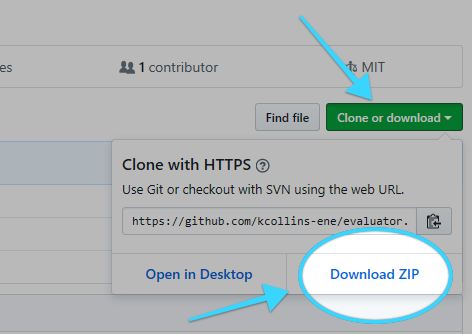
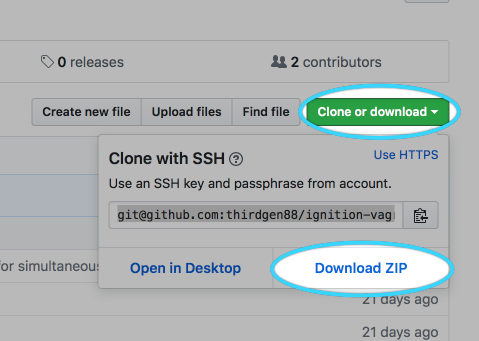
Modified for use as Ignition Dev only

diff --git a/README.md b/README.md
@@ -1,5 +1,5 @@
-# Systems Integrator Skills Evaluator
-This provides a simple set of exercises under the [Ignition](http://www.inductiveautomation.com) platform to establish a baseline capability for folks wanting to enter the industrial automation space as a Systems Integrator (SI).
+# Ignition Vagrant Development Environment
+This repository utilizes Vagrant to fully setup and provision an isolated Ignition development system to get up and running quickly!
 
 ## Prerequisites
 
@@ -43,7 +43,7 @@ Unpack the downloaded zip file, open a command prompt to the resulting location,
 First, open a terminal and clone this repository to your computer:
 
 ```bash
-git clone https://github.com/kcollins-ene/evaluator.git
+git clone https://github.com/thirdgen88/ignition-vagrant.git
 ```
 
 > If you don't have `git` installed, you may get some additional output during this step.  macOS will typically prompt you to install the Xcode developer tools—once completed, you may need to re-run the `git` command above.
@@ -51,14 +51,14 @@ git clone https://github.com/kcollins-ene/evaluator.git
 Next, start the environment:
 
 ```shell
-cd evaluator
+cd ignition-vagrant
 vagrant up
 ```
 
 
 ### All
 
-Following the platform-specific steps above will create and provision an Ubuntu 16.04 development environment with Oracle Java8, MySQL, and Ignition 7.9.3 preinstalled.  Next, simply launch a web browser against the forwarded port on your local computer:
+Following the platform-specific steps above will create and provision an Ubuntu 16.04 development environment with Oracle Java8, MySQL, and Ignition preinstalled.  Next, simply launch a web browser against the forwarded port on your local computer:
 
 http://localhost:8088
 
@@ -66,13 +66,9 @@ If you see an Ignition Gateway Webpage, you're ready to go:
 
 ![Ignition Home Page](images/ignition_home_page.png)
 
-## Performing the evaluation
-
-With your development environment online and ready, proceed to the [Evaluation](Evaluation.md) section for more instructions!
-
 ## Shutting down the environment
 
-In order to shutdown the environment, run the following command in the `evaluator` folder:
+In order to shutdown the environment, run the following command in the `ignition-vagrant` folder:
 
 ```shell
 vagrant halt
